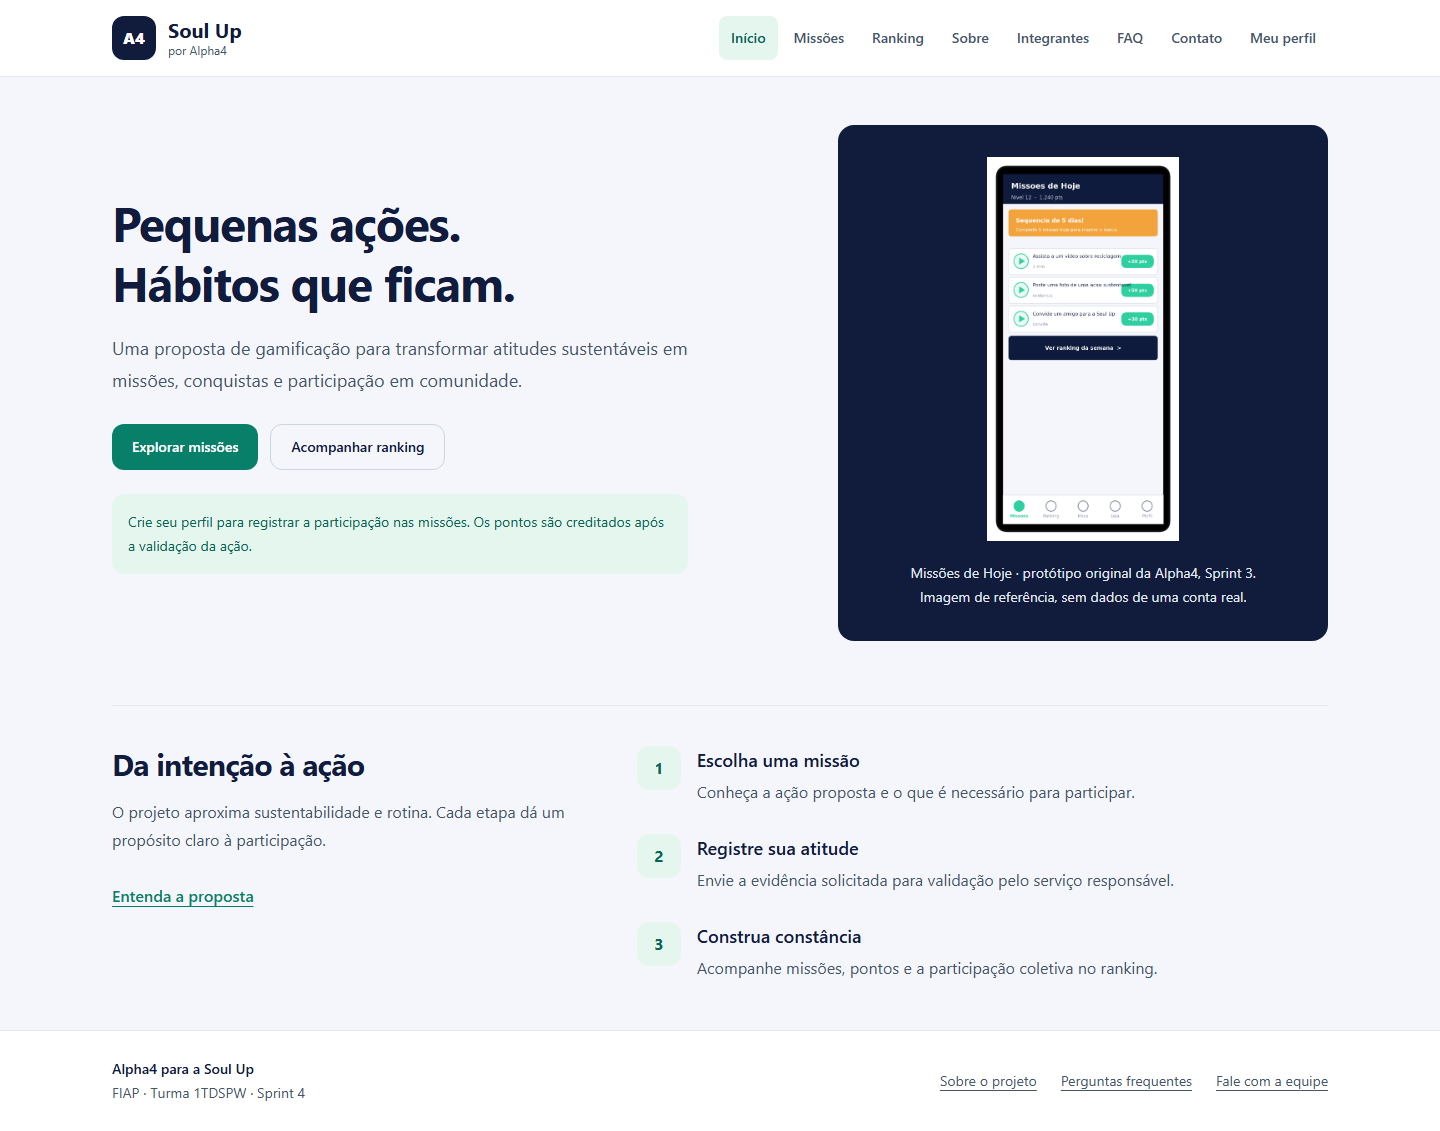
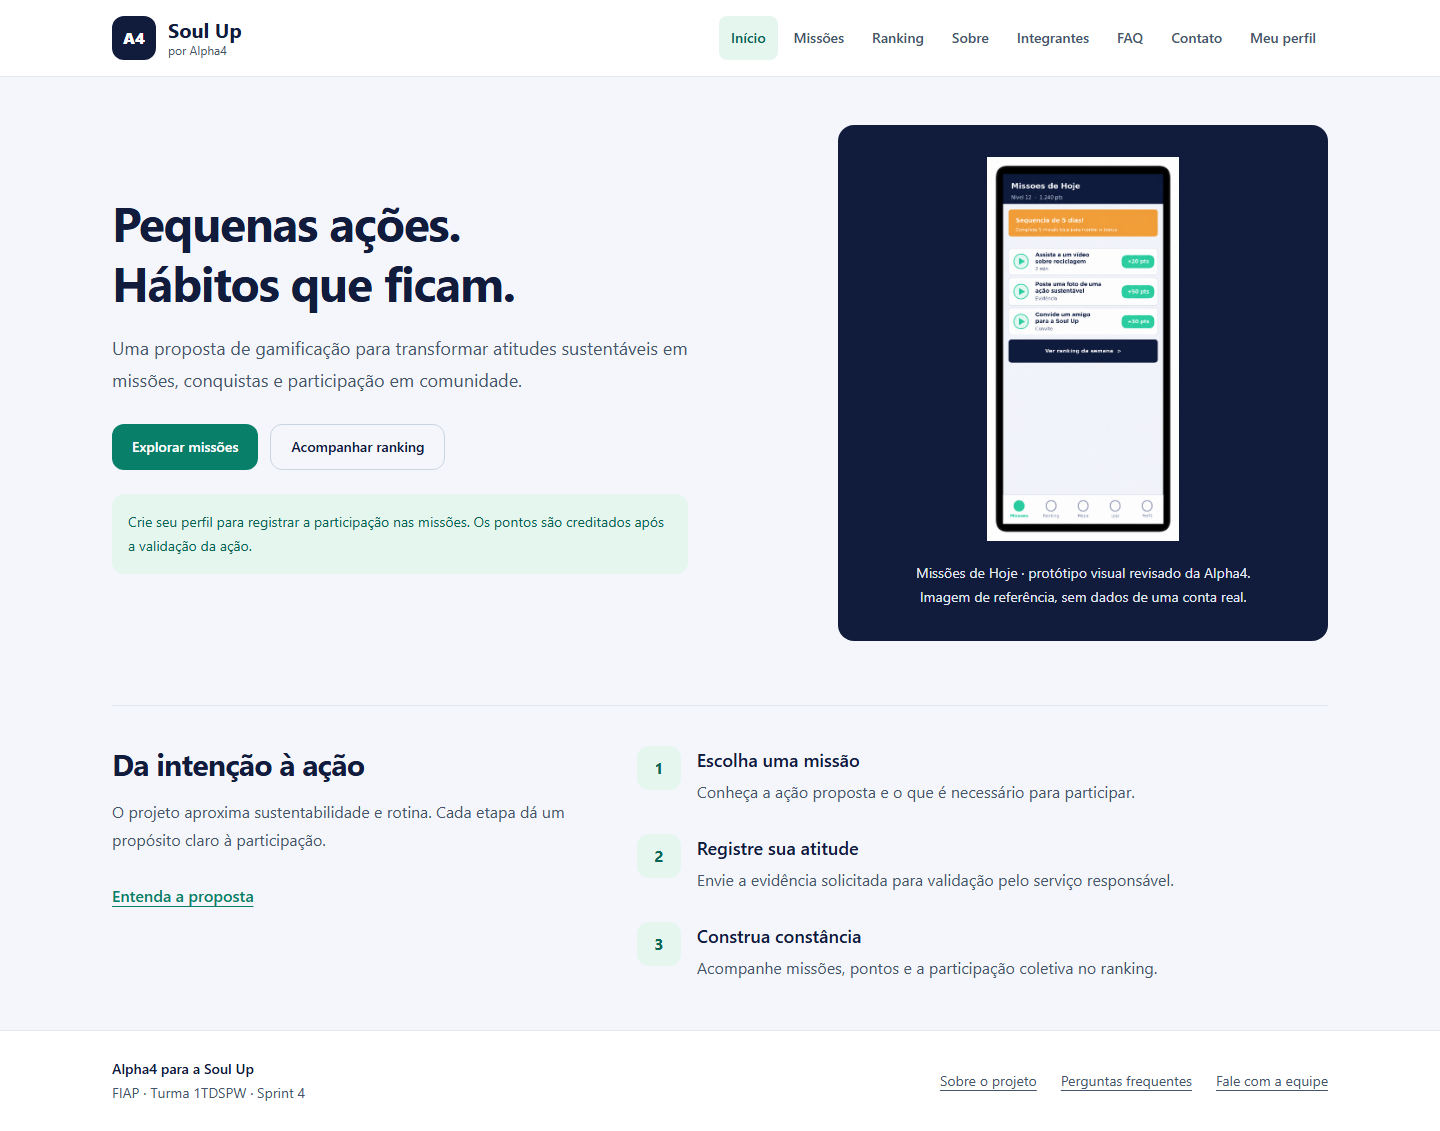
fix: corrigir sobreposição dos textos no protótipo de missões

Changed region(s): [[0.6875, 0.1857, 0.8125, 0.3404], [0.625, 0.4951, 0.875, 0.5261]]

diff --git a/src/pages/HomePage.tsx b/src/pages/HomePage.tsx
@@ -30,14 +30,14 @@ export function HomePage() {
         </div>
         <figure className="m-0 rounded-2xl bg-ink p-6 sm:p-8">
           <img
-            src="/images/missoes-sprint3.png"
-            alt="Protótipo da Sprint 3 com missões diárias, sequência de participação e acesso ao ranking."
+            src="/images/missoes-prototipo-revisado.png"
+            alt="Protótipo visual de missões com títulos em duas linhas e pontuações em uma coluna separada."
             className="mx-auto h-80 max-w-full object-contain sm:h-96"
-            width={919}
-            height={1839}
+            width={887}
+            height={1774}
           />
           <figcaption className="mt-5 text-center text-sm leading-6 text-slate-200">
-            Missões de Hoje · protótipo original da Alpha4, Sprint 3.
+            Missões de Hoje · protótipo visual revisado da Alpha4.
             <br />
             Imagem de referência, sem dados de uma conta real.
           </figcaption>

diff --git a/DESIGN.md b/DESIGN.md
@@ -126,7 +126,7 @@ components:
 
 **Creative North Star: "Gamificação sustentável da Soul Up, interface operacional com identidade do protótipo Alpha4"**
 
-Este documento registra o sistema que o frontend implementa. O norte é uma descrição factual da identidade existente, sem nova metáfora ou marca. A referência visual é a página 13 do PDF da Sprint 3, preservada em [pagina13-X41.png](../tmp/pdfs/pagina13-X41.png); a aplicação também apresenta o recorte original em `public/images/missoes-sprint3.png`.
+Este documento registra o sistema que o frontend implementa. O norte é uma descrição factual da identidade existente, sem nova metáfora ou marca. A referência visual é a página 13 do PDF da Sprint 3, preservada em [pagina13-X41.png](../tmp/pdfs/pagina13-X41.png). O recorte original fica em `public/images/missoes-sprint3.png`; a Home utiliza `public/images/missoes-prototipo-revisado.png`, com títulos em duas linhas e pontuações separadas para corrigir a sobreposição da imagem original.
 
 A interface usa fundo claro, texto azul-marinho, verde para ações e superfícies brancas delimitadas. A densidade permite ler instruções e completar tarefas em telas pequenas. Estados de carregamento, vazio, falha e conclusão acompanham a operação real. A home apresenta a proposta; as jornadas de participação privilegiam instruções e controles explícitos. Essas diferenças de composição não criam paletas ou sistemas separados.
 
@@ -229,7 +229,7 @@ Ranking é tabela semântica dentro de recipiente branco com cantos de 16px; cab
 - **Do** usar os tokens de identidade de `src/styles.css` e utilitários Tailwind nos novos componentes.
 - **Do** manter texto de estado, foco visível e rótulos associados aos campos.
 - **Do** preservar o espaço dos controles e a quebra de texto variável em telas estreitas.
-- **Do** identificar a imagem original como protótipo de referência, sem apresentá-la como conta real.
+- **Do** identificar a imagem revisada como protótipo de referência, sem apresentá-la como conta real.
 - **Do** manter a distinção entre informação de participação e confirmação retornada pelo serviço.
 
 ### Don't:

diff --git a/README.md b/README.md
@@ -173,9 +173,13 @@ Captura real desta implementação, produzida com perfil de demonstração e
 backend local. Outras resoluções e jornadas estão em `docs/screenshots/`.
 As capturas não comprovam publicação em nuvem.
 
-O arquivo `public/images/missoes-sprint3.png`, usado na página inicial, foi
-extraído da página 13 do PDF da própria equipe; trata-se de um protótipo
-da Sprint 3, não de uma captura do sistema em produção. A interface utiliza
+O arquivo original `public/images/missoes-sprint3.png` foi extraído da página
+13 do PDF da equipe e preservado como referência. A página inicial utiliza
+`public/images/missoes-prototipo-revisado.png`, editado com ImageGen para
+separar os títulos das pontuações e corrigir a sobreposição do original.
+O prompt da edição acompanha a imagem no arquivo `.prompt.txt`.
+Os valores do protótipo são ilustrativos, não dados de uma conta real.
+A interface utiliza
 controles textuais e nativos do navegador, sem pacote de UI ou ícones externos.
 
 ## Contato

diff --git a/docs/VERIFICACAO.md b/docs/VERIFICACAO.md
@@ -34,6 +34,12 @@ verde claro. Texto nessas superfícies passou a usar `brand-strong`, mantendo
 o verde dos botões. O revisor confirmou no DOM a nova combinação em 6,185:1,
 e branco sobre botão continua em 4,946:1, ambos adequados para texto normal.
 
+O usuário apontou sobreposição entre títulos e pontuações no PNG original
+do protótipo. A Home passou a usar uma imagem revisada, com títulos em duas
+linhas e coluna separada para a pontuação. Build e renderização em seis
+larguras passaram; a revisão independente confirmou a correção no arquivo
+e na página em mobile e desktop. O original foi preservado como referência.
+
 ## Pendências para a entrega completa
 
 - Publicar frontend na Vercel e Java em serviço com banco persistente.
